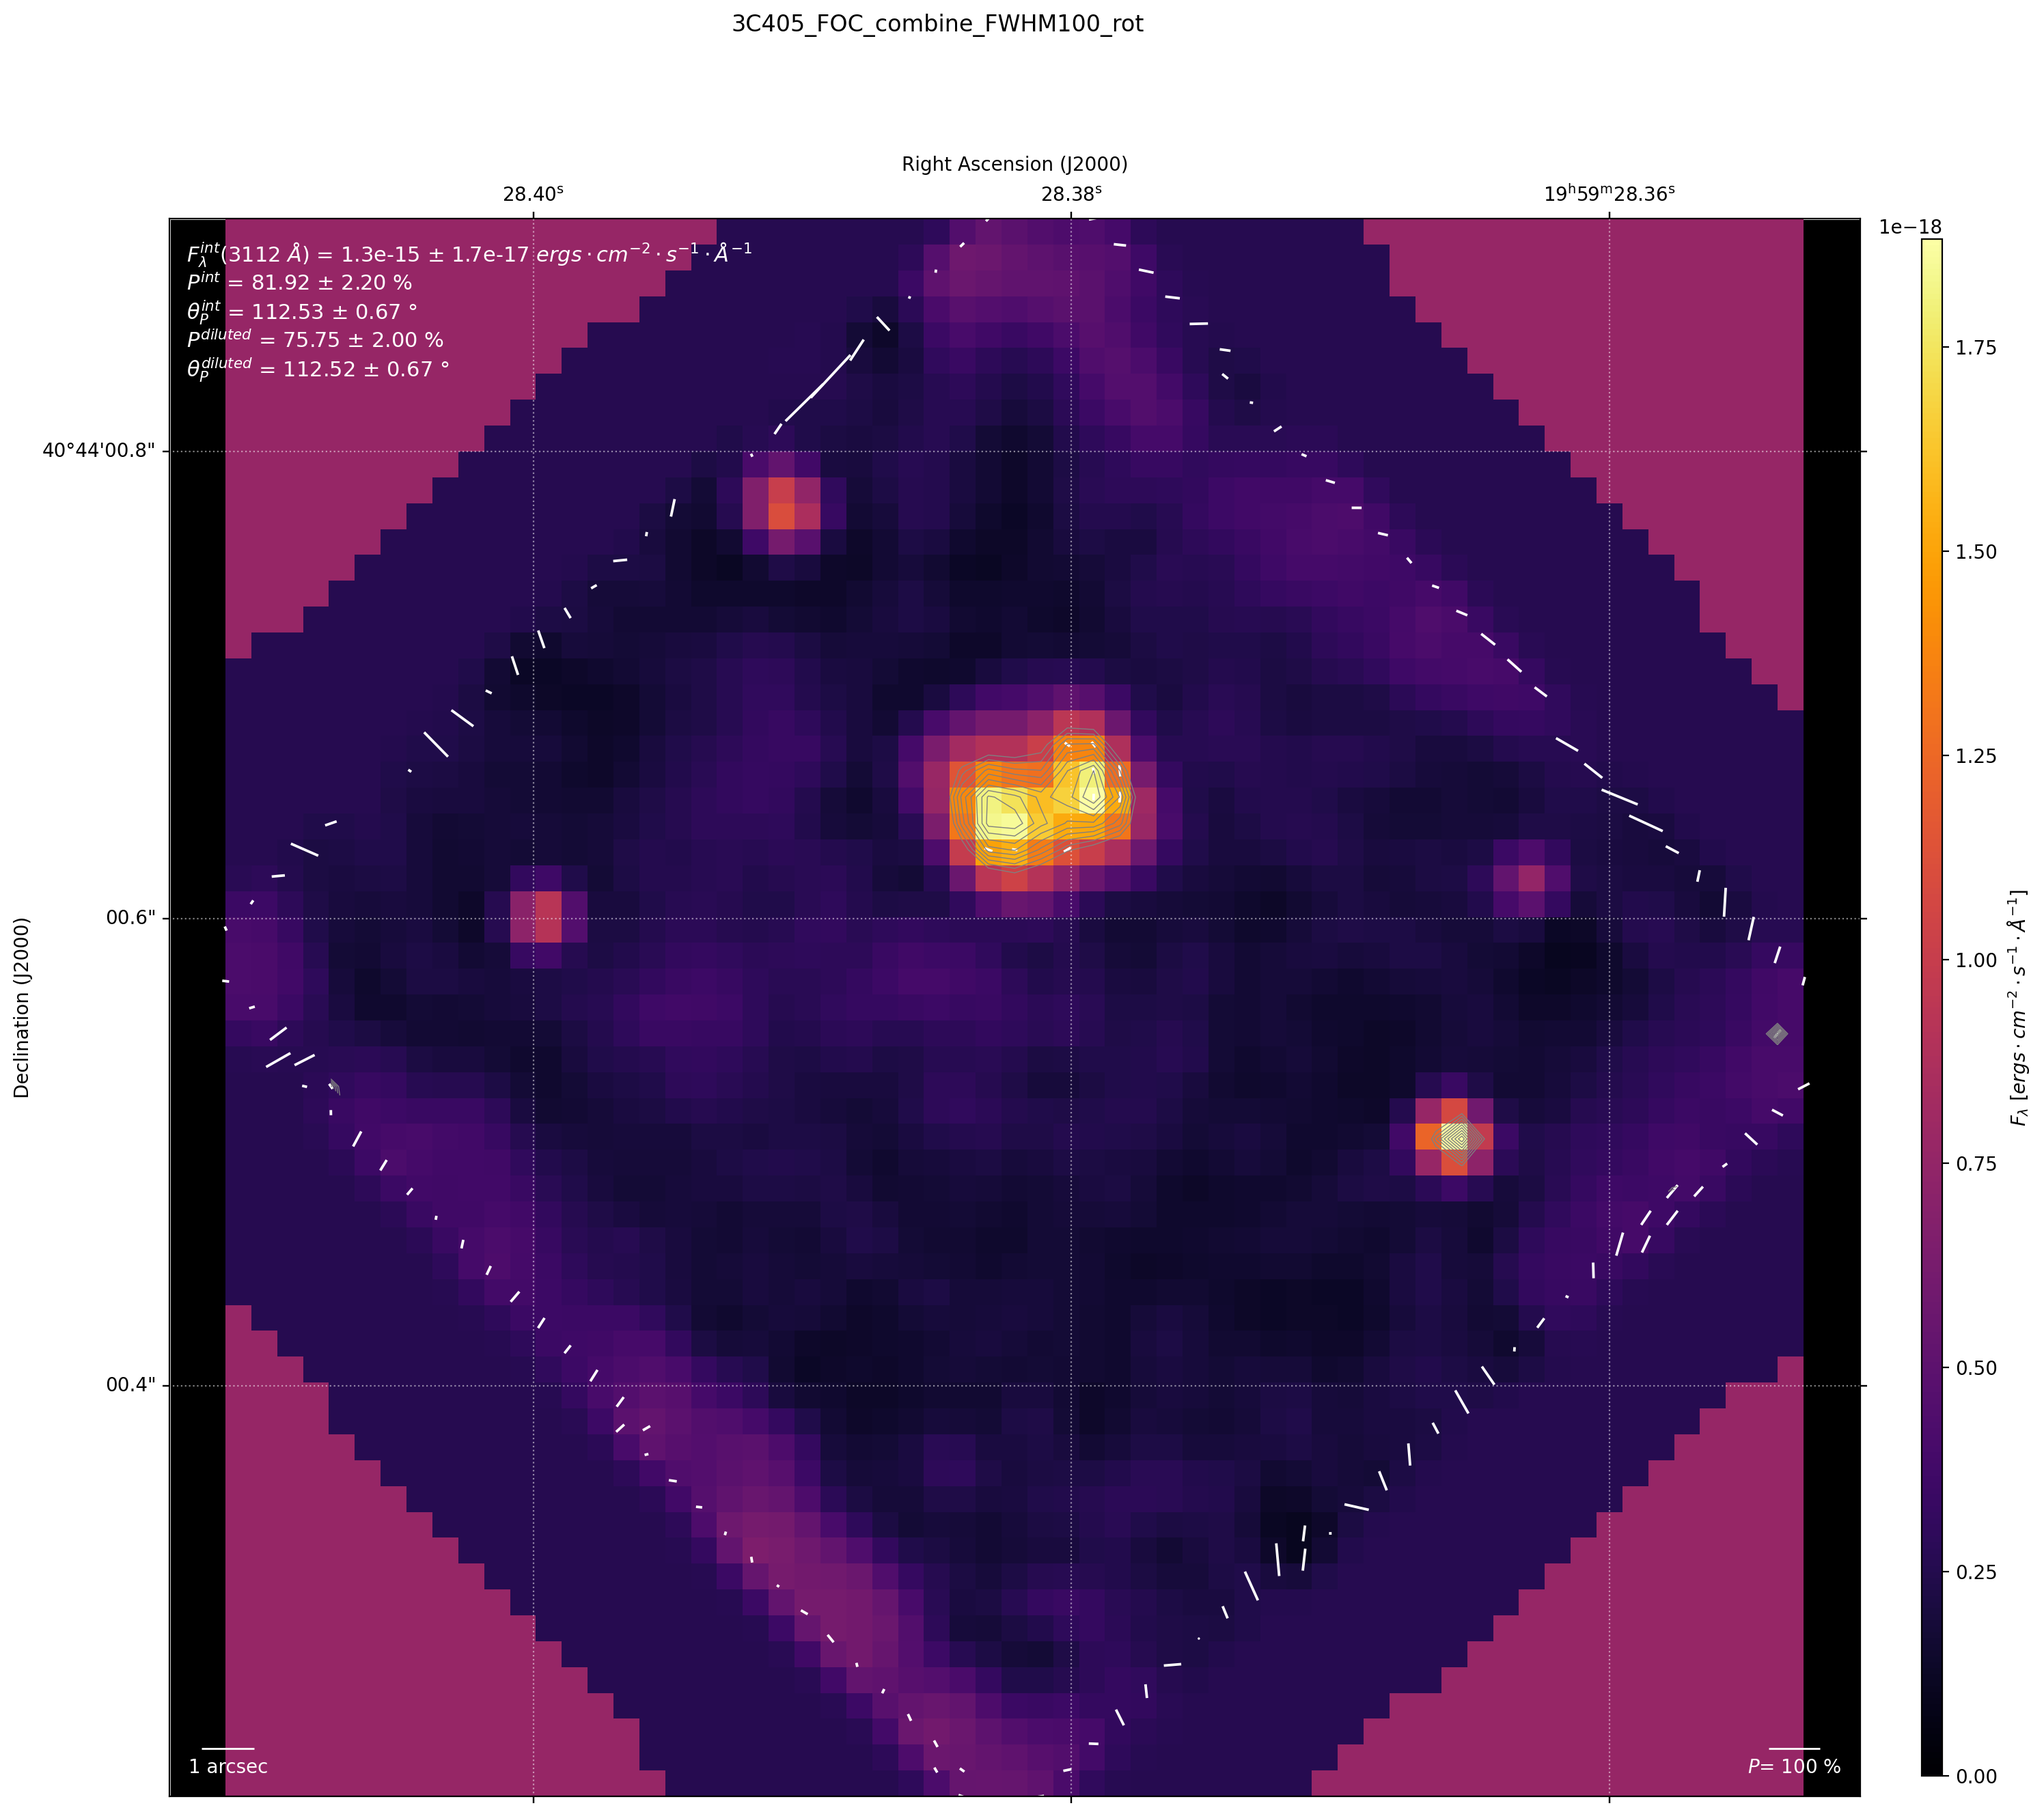
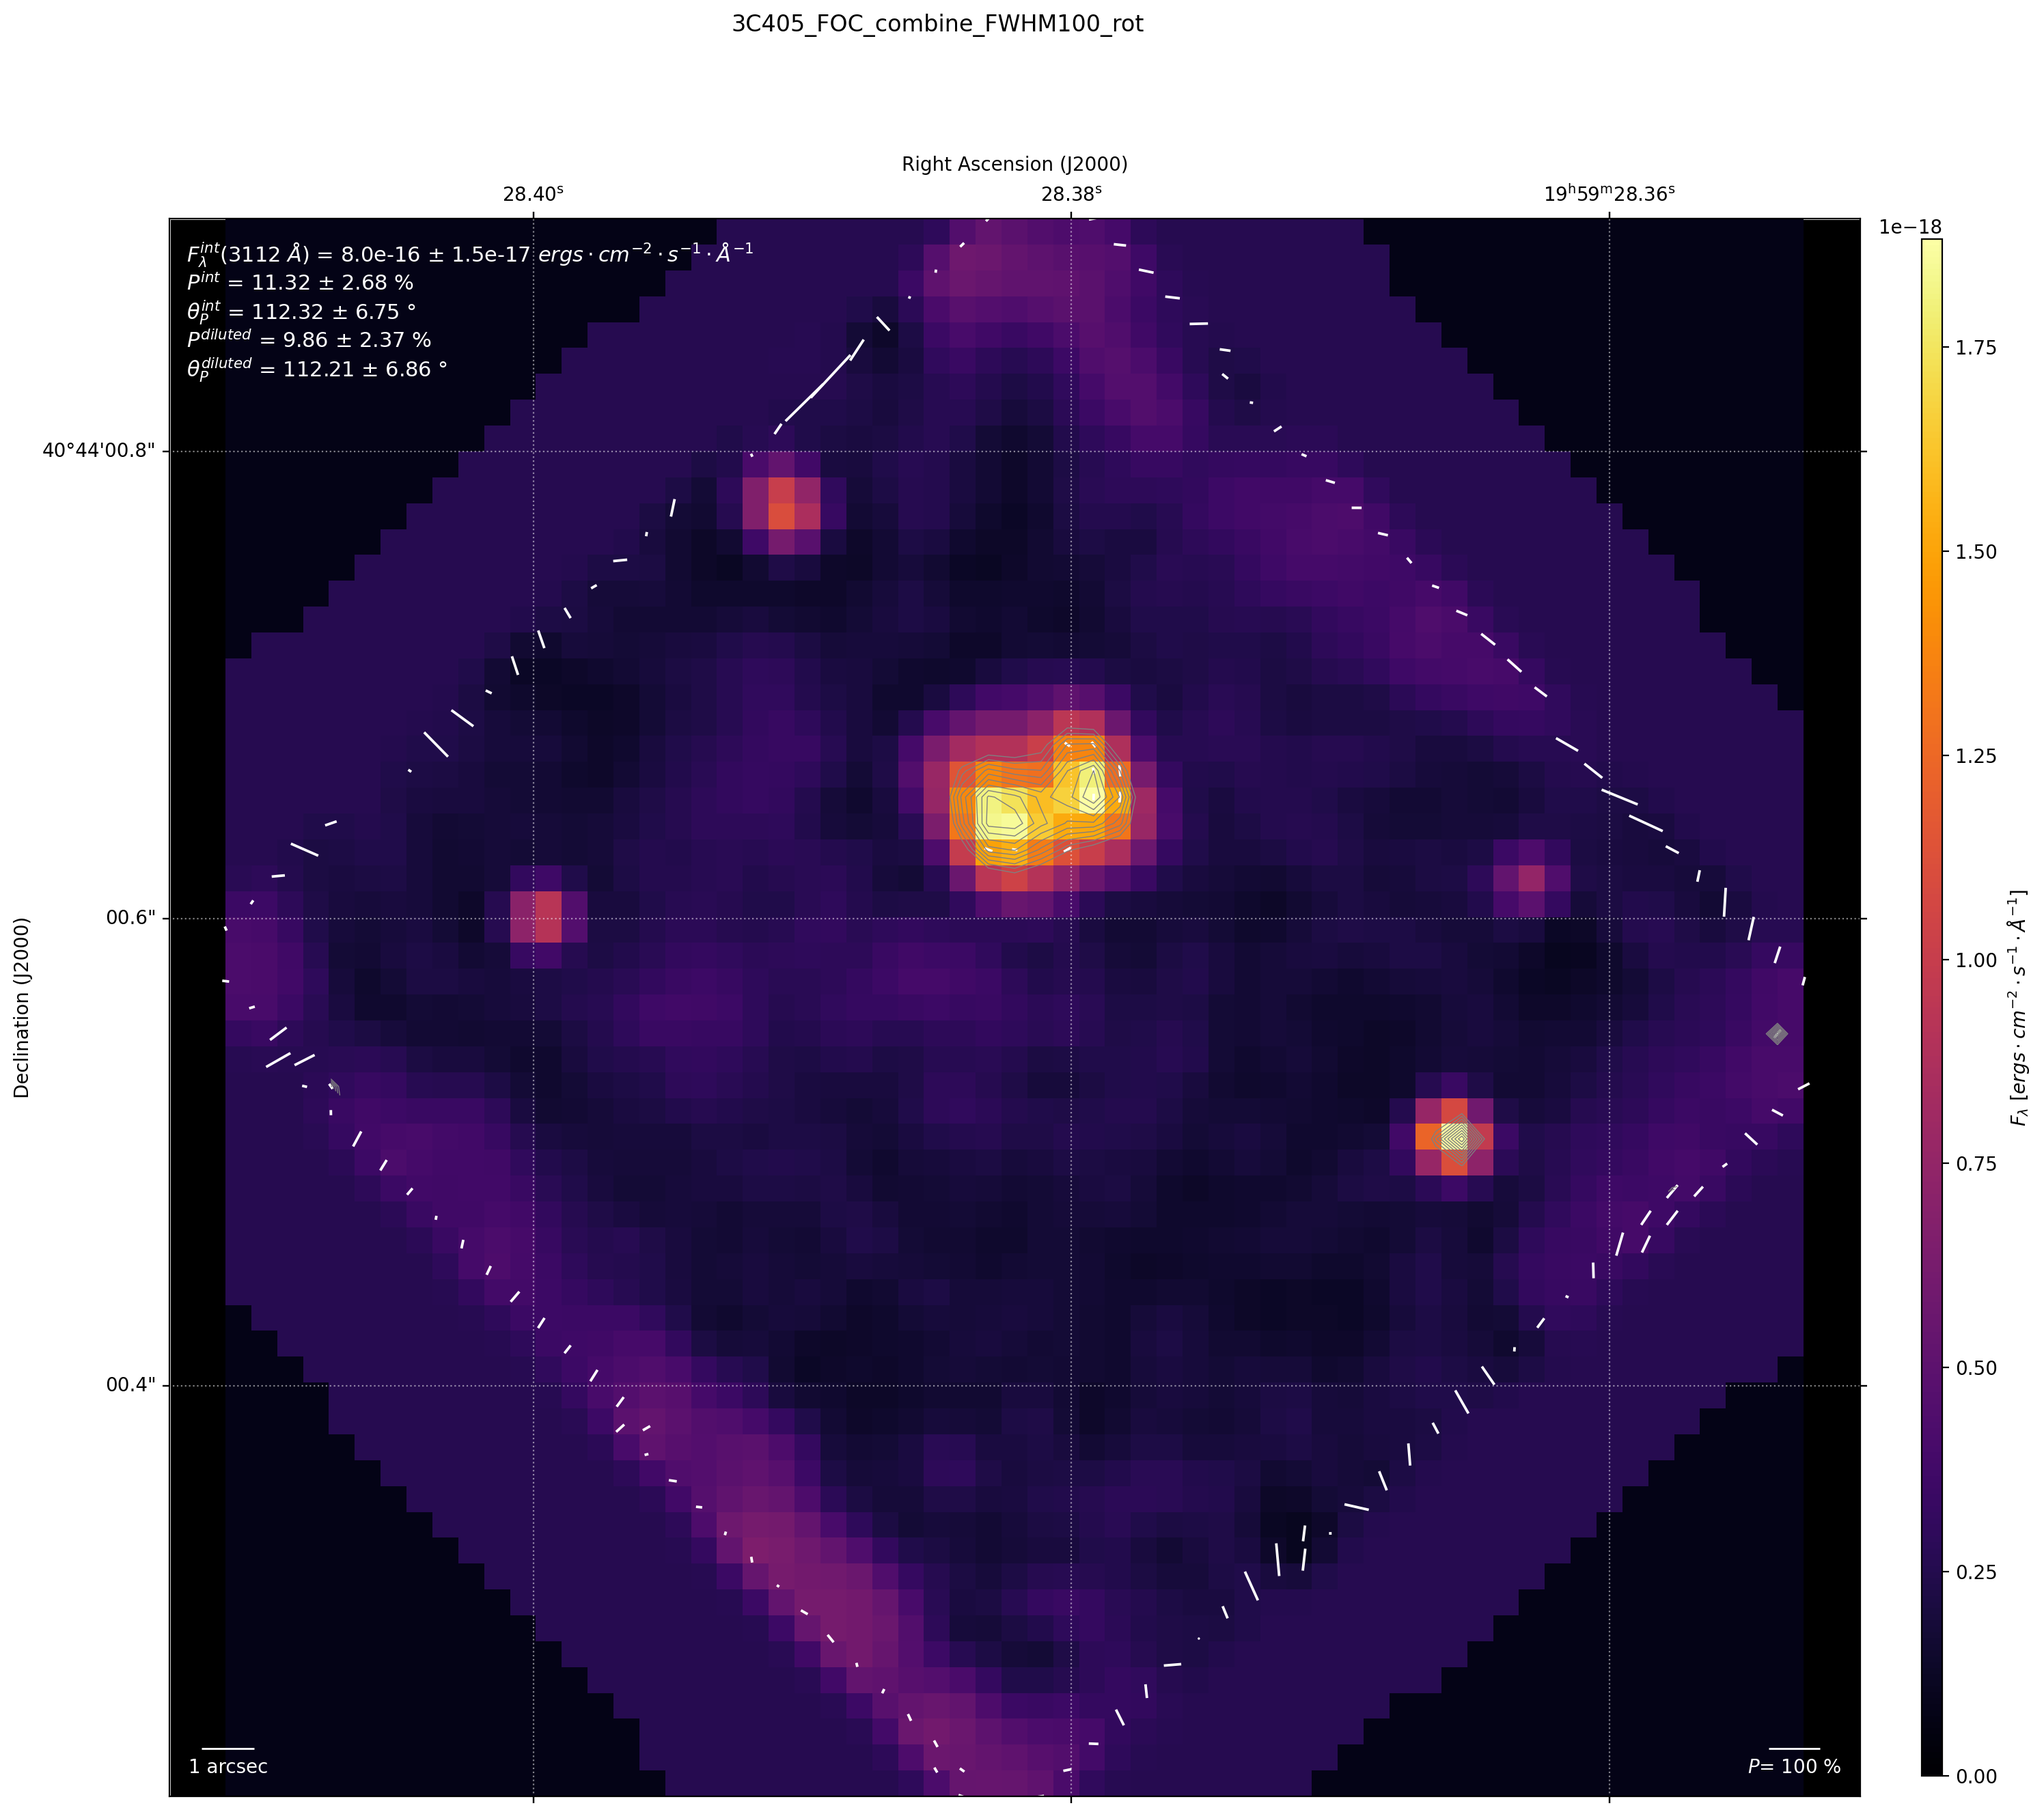
Output several new maps for updated rotation of 3C405

diff --git a/src/FOC_reduction.py b/src/FOC_reduction.py
@@ -29,10 +29,9 @@ def main():
 #            'x14w0104t_c1f.fits','x14w0105p_c1f.fits','x14w0106t_c1f.fits']
 #    globals()['plots_folder'] = "../plots/NGC1068_x14w010/"
 
-#    globals()['data_folder'] = "../data/3C405_x136060/"
-#    infiles = ['x1360601t_c0f.fits','x1360602t_c0f.fits','x1360603t_c0f.fits']
-#    infiles = ['x1360601t_c1f.fits','x1360602t_c1f.fits','x1360603t_c1f.fits']
-#    globals()['plots_folder'] = "../plots/3C405_x136060/"
+    globals()['data_folder'] = "../data/3C405_x136060/"
+    infiles = ['x1360601t_c0f.fits','x1360602t_c0f.fits','x1360603t_c0f.fits']
+    globals()['plots_folder'] = "../plots/3C405_x136060/"
 
 #    globals()['data_folder'] = "../data/CygnusA_x43w0/"
 #    infiles = ['x43w0101r_c0f.fits', 'x43w0102r_c0f.fits', 'x43w0103r_c0f.fits',
@@ -46,13 +45,13 @@ def main():
 #    infiles = ['x3mc0101m_c0f.fits','x3mc0102m_c0f.fits','x3mc0103m_c0f.fits']
 #    globals()['plots_folder'] = "../plots/3C109_x3mc010/"
 
-    globals()['data_folder'] = "../data/MKN463_x2rp030/"
-    infiles = ['x2rp0201t_c0f.fits', 'x2rp0203t_c0f.fits', 'x2rp0205t_c0f.fits',
-            'x2rp0207t_c0f.fits', 'x2rp0302t_c0f.fits', 'x2rp0304t_c0f.fits',
-            'x2rp0306t_c0f.fits', 'x2rp0202t_c0f.fits', 'x2rp0204t_c0f.fits',
-            'x2rp0206t_c0f.fits', 'x2rp0301t_c0f.fits', 'x2rp0303t_c0f.fits',
-            'x2rp0305t_c0f.fits', 'x2rp0307t_c0f.fits']
-    globals()['plots_folder'] = "../plots/MKN463_x2rp030/"
+#    globals()['data_folder'] = "../data/MKN463_x2rp030/"
+#    infiles = ['x2rp0201t_c0f.fits', 'x2rp0202t_c0f.fits', 'x2rp0203t_c0f.fits',
+#            'x2rp0204t_c0f.fits', 'x2rp0205t_c0f.fits', 'x2rp0206t_c0f.fits',
+#            'x2rp0207t_c0f.fits', 'x2rp0301t_c0f.fits', 'x2rp0302t_c0f.fits',
+#            'x2rp0303t_c0f.fits', 'x2rp0304t_c0f.fits', 'x2rp0305t_c0f.fits',
+#            'x2rp0306t_c0f.fits', 'x2rp0307t_c0f.fits']
+#    globals()['plots_folder'] = "../plots/MKN463_x2rp030/"
 
 #    globals()['data_folder'] = "../data/PG1630+377_x39510/"
 #    infiles = ['x3990201m_c0f.fits', 'x3990205m_c0f.fits', 'x3995101r_c0f.fits',
@@ -89,12 +88,12 @@ def main():
         psf_shape=(9,9)
         iterations = 10
     # Error estimation
-    error_sub_shape = (100,100)
+    error_sub_shape = (150,150)
     display_error = False
     # Data binning
     rebin = True
     if rebin:
-        pxsize = 0.10
+        pxsize = 0.50
         px_scale = 'arcsec'         #pixel or arcsec
         rebin_operation = 'sum'     #sum or average
     # Alignement
@@ -102,13 +101,13 @@ def main():
     display_data = False
     # Smoothing
     smoothing_function = 'combine'  #gaussian_after, gaussian or combine
-    smoothing_FWHM = 0.20           #If None, no smoothing is done
+    smoothing_FWHM = 1.00           #If None, no smoothing is done
     smoothing_scale = 'arcsec'       #pixel or arcsec
     # Rotation
     rotate = True                  #rotation to North convention can give erroneous results
     # Polarization map output
-    figname = 'MKN463_FOC'         #target/intrument name
-    figtype = '_combine_FWHM020_rot'    #additionnal informations
+    figname = '3C405_FOC'         #target/intrument name
+    figtype = '_combine_FWHM100_rot'    #additionnal informations
     SNRp_cut = 3    #P measurments with SNR>3
     SNRi_cut = 30   #I measurments with SNR>30, which implies an uncertainty in P of 4.7%.
     step_vec = 1    #plot all vectors in the array. if step_vec = 2, then every other vector will be plotted

diff --git a/src/lib/reduction.py b/src/lib/reduction.py
@@ -1132,15 +1132,15 @@ def rotate_Stokes(I_stokes, Q_stokes, U_stokes, Stokes_cov, headers, ang):
 
     #Rotate original images using scipy.ndimage.rotate
     new_I_stokes = sc_rotate(new_I_stokes, ang, reshape=False,
-            cval=np.sqrt(new_Stokes_cov[0,0][0,0]))
+            cval=0.10*np.sqrt(new_Stokes_cov[0,0][0,0]))
     new_Q_stokes = sc_rotate(new_Q_stokes, ang, reshape=False,
-            cval=np.sqrt(new_Stokes_cov[1,1][0,0]))
+            cval=0.10*np.sqrt(new_Stokes_cov[1,1][0,0]))
     new_U_stokes = sc_rotate(new_U_stokes, ang, reshape=False,
-            cval=np.sqrt(new_Stokes_cov[2,2][0,0]))
+            cval=0.10*np.sqrt(new_Stokes_cov[2,2][0,0]))
     for i in range(3):
         for j in range(3):
             new_Stokes_cov[i,j] = sc_rotate(new_Stokes_cov[i,j], ang, reshape=False,
-                    cval=new_Stokes_cov[i,j].mean())
+                    cval=0.10*new_Stokes_cov[i,j].mean())
 
     #Update headers to new angle
     new_headers = []
